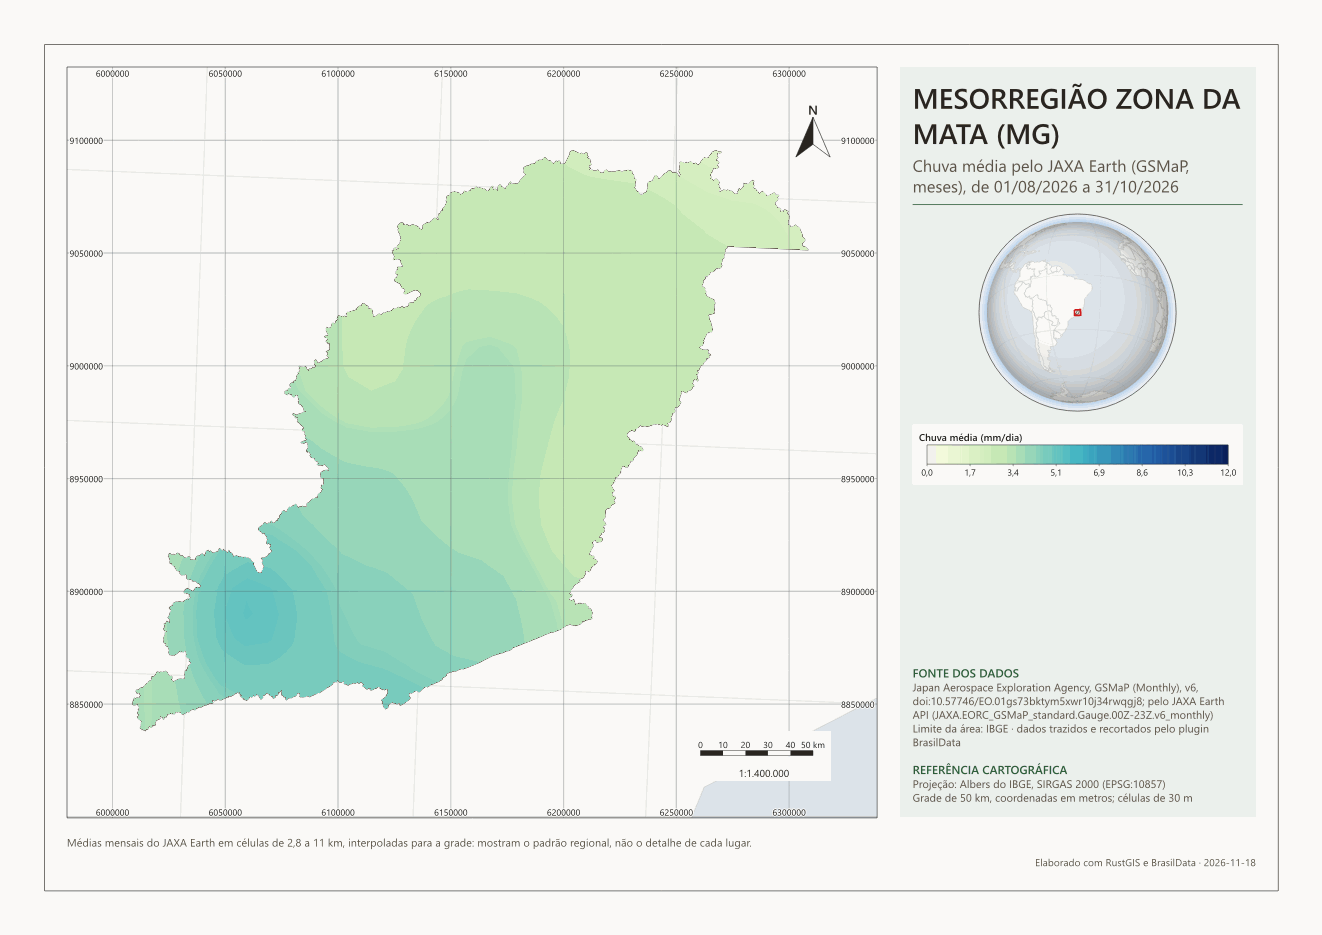
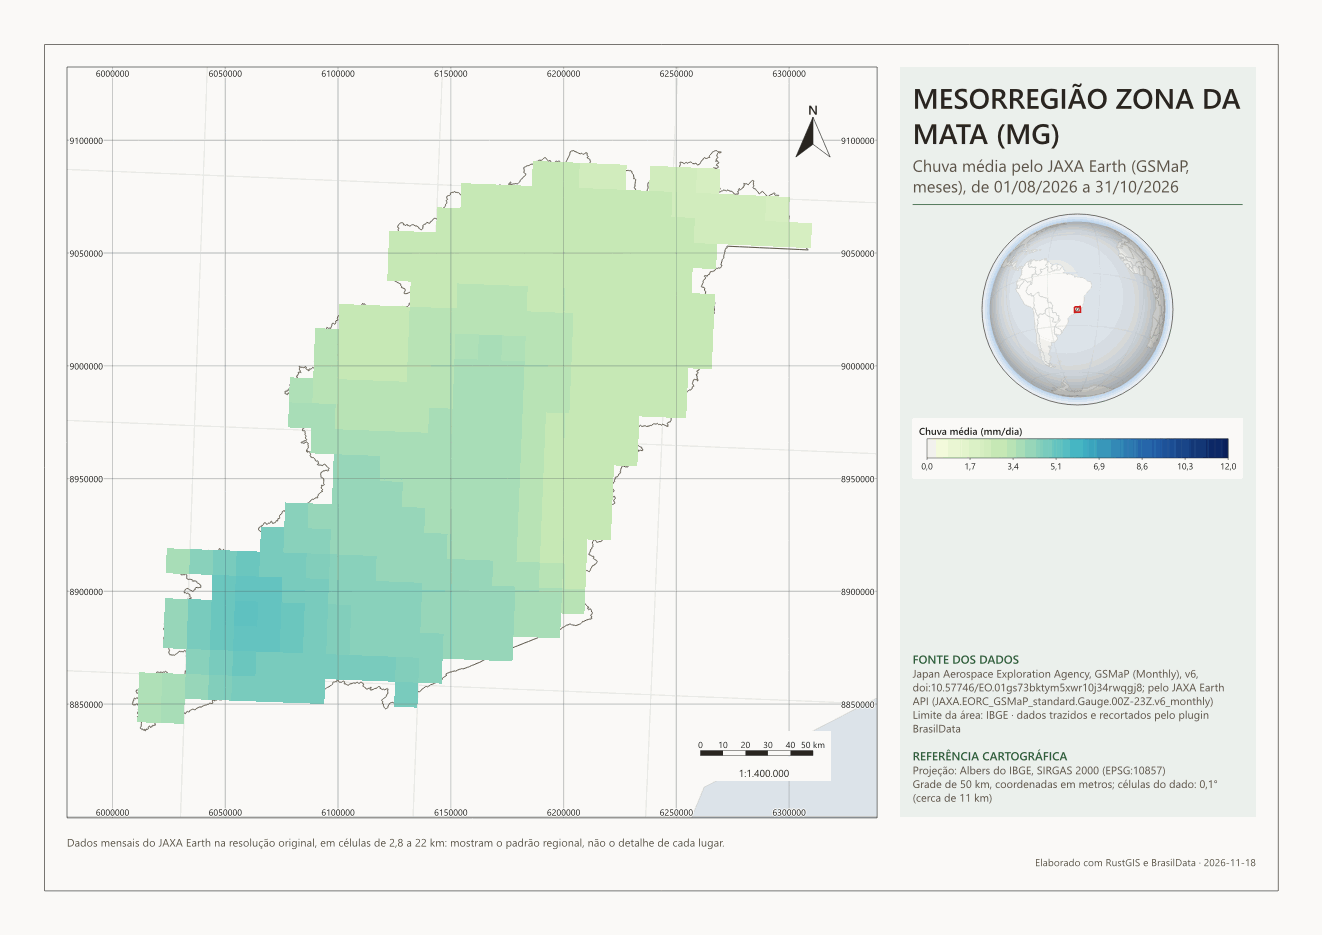
JAXA na resolução original; grade padrão pelo tamanho da área; versão 0.1.37
- Os cinco comandos do JAXA Earth saem na resolução original do dado (0,1°,
  1/24°, 0,05°, cerca de 22 km, em EPSG:4326), só recortados pela área, sem
  interpolar para a grade do projeto: no Brasil inteiro, a chuva a 0,1° tem
  416 × 391 células e sai em segundos (antes, a grade de 30 m pedia 21
  bilhões de células e o RustGIS recusava). A referência do layout diz a
  célula do dado.
- A grade padrão tem a menor célula do painel, de 30 m para cima, que a deixa
  com até 100 milhões de células: 30 m num município ou na Zona da Mata,
  250 m em Minas Gerais, 500 m no Brasil (grade::celula_padrao). Uma grade
  que, na área, passa do limite do RustGIS (1 bilhão) é refeita com a célula
  padrão, com aviso; a janela Grade do projeto recusa uma célula fina demais.

diff --git a/src/comandos.rs b/src/comandos.rs
@@ -298,9 +298,11 @@ fn por_area(fc: Value) -> Result<Value, String> {
     // pedir as janelas seria recusado quando elas chegam (ver executar).
     let havia = grade_no_mapa()?;
     let nova = havia.is_none();
+    // A célula padrão cresce com a área; a de uma grade que já havia fica, a não ser que passe do
+    // limite do RustGIS nesta área (uma grade de 30 m no Brasil inteiro teria 23 bilhões de células).
     let grade = Some(match havia {
-        Some(g) => por_grade(Grade::nova(caixa, g.escolha, g.celula))?,
-        None => por_grade(Grade::nova(caixa, Escolha::Automatico, grade::CELULA_PADRAO))?,
+        Some(g) => por_grade(Grade::nova(caixa, g.escolha, celula_que_cabe(caixa, g.celula)))?,
+        None => por_grade(Grade::nova(caixa, Escolha::Automatico, grade::celula_padrao(caixa)))?,
     });
     remover(&[AREA])?;
     host::add_layer(AREA, fc)?;
@@ -365,6 +367,14 @@ fn grade_do_projeto(req: &Request) -> Result<Value, String> {
         Some(v) => Escolha::do_parametro(v)?,
         None => posicao("grade-sistema").and_then(|i| Escolha::DO_PAINEL.get(i).copied()).unwrap_or(Escolha::Automatico),
     };
+    if grade::celulas(c, celula) > grade::MAX_CELULAS {
+        return Err(format!(
+            "uma grade de {} teria cerca de {} milhões de células nesta área, mais que o RustGIS aceita (1 bilhão): escolha {} ou mais",
+            grade::texto_da_celula(celula),
+            (grade::celulas(c, celula) / 1e6).round(),
+            grade::texto_da_celula(grade::celula_padrao(c))
+        ));
+    }
     let g = por_grade(Grade::nova(c, escolha, celula))?;
     vista_no_sistema(c, Some(g.epsg));
     avisar(&format!(
@@ -377,9 +387,10 @@ fn grade_do_projeto(req: &Request) -> Result<Value, String> {
 }
 
 /// A grade para um raster na área de retângulo `c`: a do mapa, refeita se não cobre mais a área
-/// (a camada da área trocada à mão), ou, sem grade, a padrão (sistema automático) com
-/// `celula` ou 30 m. Um `celula` diferente do da grade é recusado: os rasters ficariam
-/// desalinhados.
+/// (a camada da área trocada à mão) ou se as células dela não cabem no RustGIS nesta área, ou,
+/// sem grade, a padrão (sistema automático) com `celula` ou a célula padrão da área (30 m num
+/// município, maior numa área grande). Um `celula` diferente do da grade é recusado: os rasters
+/// ficariam desalinhados.
 fn grade_para(c: [f64; 4], celula: Option<f64>) -> Result<Grade, String> {
     let g = match grade_no_mapa()? {
         Some(g) => {
@@ -392,15 +403,16 @@ fn grade_para(c: [f64; 4], celula: Option<f64>) -> Result<Grade, String> {
                     grade::texto_da_celula(m)
                 ));
             }
-            if g.cobre(c) {
+            let m = celula_que_cabe(c, g.celula);
+            if g.cobre(c) && m == g.celula {
                 g
             } else {
-                por_grade(Grade::nova(c, g.escolha, g.celula))?;
+                por_grade(Grade::nova(c, g.escolha, m))?;
                 return Err(GRADE_FEITA.into());
             }
         }
         None => {
-            let m = celula.unwrap_or(grade::CELULA_PADRAO);
+            let m = celula.unwrap_or(grade::celula_padrao(c));
             grade::conferir_celula(m)?;
             let g = por_grade(Grade::nova(c, Escolha::Automatico, m))?;
             avisar(&format!("Grade do projeto criada: {}. Para outra, use Grade do projeto no painel Área de trabalho", g.texto()));
@@ -408,6 +420,22 @@ fn grade_para(c: [f64; 4], celula: Option<f64>) -> Result<Grade, String> {
         }
     };
     Ok(g)
+}
+
+/// A célula `celula` da grade, ou, se nesta área de retângulo `c` ela passa do limite do RustGIS
+/// ([`grade::MAX_CELULAS`]), a padrão da área, dito num aviso.
+fn celula_que_cabe(c: [f64; 4], celula: f64) -> f64 {
+    if grade::celulas(c, celula) <= grade::MAX_CELULAS {
+        return celula;
+    }
+    let m = grade::celula_padrao(c);
+    avisar(&format!(
+        "Grade do projeto: células de {} dariam cerca de {} milhões nesta área, mais que o RustGIS aceita; ficou com {}",
+        grade::texto_da_celula(celula),
+        (grade::celulas(c, celula) / 1e6).round(),
+        grade::texto_da_celula(m)
+    ));
+    m
 }
 
 /// O "erro" com que [`grade_para`] para um comando depois de criar ou refazer a grade: o
@@ -4499,8 +4527,9 @@ fn bdc_indice(req: &Request) -> Result<Value, String> {
 
 /// Um dado mensal do JAXA Earth na área ([`jaxa`]), resumido num período (a média, a máxima, a
 /// mínima ou o desvio dos meses): lido só na área pelo `cube.reduce` do RustGIS na coleção estática
-/// do conjunto, convertido para a unidade do texto, posto na grade do projeto e recortado pelo
-/// contorno. Sem período, os 3 meses até o último com dados (lido no `collection.json`).
+/// do conjunto, convertido para a unidade do texto e recortado pelo contorno, na resolução original
+/// do dado (fora da grade do projeto). Sem período, os 3 meses até o último com dados (lido no
+/// `collection.json`).
 fn jaxa_na_area(req: &Request, v: jaxa::Variavel) -> Result<Value, String> {
     let (c, na_area) = retangulo()?;
     if !na_area {
@@ -4529,11 +4558,9 @@ fn jaxa_na_area(req: &Request, v: jaxa::Variavel) -> Result<Value, String> {
         }
     };
     jaxa::conferir_periodo(v, inicio, fim)?;
-    let g = grade_para(c, req.f64("celula"))?;
     let nome = jaxa::camada(v, e, inicio, fim);
     let lido = format!("{nome} (lido)");
     let convertido = format!("{nome} (convertido)");
-    let na_grade = format!("{nome} (na grade)");
     // O que um clique anterior leu serve: no app, o comando roda de novo quando a leitura chega.
     // Nada se tira antes da leitura (ver executar).
     if !nomes()?.contains(&lido) {
@@ -4564,9 +4591,9 @@ fn jaxa_na_area(req: &Request, v: jaxa::Variavel) -> Result<Value, String> {
             return Ok(r);
         }
     }
-    remover(&[&nome, &convertido, &na_grade])?;
+    remover(&[&nome, &convertido])?;
     let feito = (|| -> Result<(), String> {
-        // As células do JAXA (de 2,8 a 11 km) são maiores que as da grade: bilinear.
+        // Na resolução original: as células do JAXA, recortadas pela área, sem reamostrar.
         let origem = match v.expressao(e) {
             Some(x) => {
                 host::run("raster.function", json!({"layer": lido, "function": "bandMath", "expression": x, "name": convertido}))?;
@@ -4574,11 +4601,7 @@ fn jaxa_na_area(req: &Request, v: jaxa::Variavel) -> Result<Value, String> {
             }
             None => lido.clone(),
         };
-        host::run(
-            "raster.project",
-            json!({"layer": origem, "crs": g.epsg, "cellSize": g.celula, "extent": GRADE, "resampling": "bilinear", "name": na_grade}),
-        )?;
-        recortar(&na_grade, AREA, &nome)?;
+        recortar(&origem, AREA, &nome)?;
         let (rampa, cores) = v.rampa();
         let _ = host::run("ramp.add", json!({"text": cores, "format": "gdal", "name": rampa}));
         if host::run("raster.symbology", json!({"layer": nome, "type": "stretch", "ramp": rampa})).is_err() {
@@ -4590,7 +4613,7 @@ fn jaxa_na_area(req: &Request, v: jaxa::Variavel) -> Result<Value, String> {
         }
         Ok(())
     })();
-    remover(&[&lido, &convertido, &na_grade])?;
+    remover(&[&lido, &convertido])?;
     feito?;
     let media = host::run("raster.info", json!({"layer": nome}))
         .ok()
@@ -4598,15 +4621,15 @@ fn jaxa_na_area(req: &Request, v: jaxa::Variavel) -> Result<Value, String> {
         .map(|m| format!("; média na área: {}{}", format!("{m:.2}").replace('.', ","), com_espaco(v.unidade())))
         .unwrap_or_default();
     avisar(&format!(
-        "{}: dos meses do JAXA Earth ({}){}, na grade do projeto, {} (as células do JAXA, de 2,8 a 11 km, interpoladas){media}",
+        "{}: dos meses do JAXA Earth ({}){}, na resolução original do dado, {}, recortada pela área (fora da grade do projeto){media}",
         nome.trim_start_matches(PREFIXO),
         v.conjunto(),
         if v.unidade().is_empty() { String::new() } else { format!(", em {}", v.unidade()) },
-        g.texto()
+        v.resolucao()
     ));
     Ok(json!({
         "layer": nome, "dataset": v.conjunto(), "band": v.banda(), "unit": v.unidade(), "stat": e.stat(),
-        "start": inicio.iso(), "end": fim.iso(), "crs": format!("EPSG:{}", g.epsg), "cellSize": g.celula,
+        "start": inicio.iso(), "end": fim.iso(), "resolution": v.resolucao(),
     }))
 }
 
@@ -4834,7 +4857,11 @@ fn layout_do_mapa(req: &Request) -> Result<Value, String> {
     let epsg = g.as_ref().map_or_else(|| Escolha::Automatico.epsg(c), |g| g.epsg);
     host::run("map.projection", json!({"type": format!("EPSG:{epsg}")}))?;
     let passo = layout::passo_da_grade(c);
-    let celula = g.as_ref().map(|g| format!("; células de {}", grade::texto_da_celula(g.celula))).unwrap_or_default();
+    // Um dado do JAXA Earth sai na resolução original, fora da grade: a célula dele, não a da grade.
+    let celula = match jaxa::variavel_da_camada(&principal) {
+        Some(v) => format!("; células do dado: {}", v.resolucao()),
+        None => g.as_ref().map(|g| format!("; células de {}", grade::texto_da_celula(g.celula))).unwrap_or_default(),
+    };
     let referencia = [
         format!("Projeção: {}", grade::nome_do_sistema(epsg)),
         format!("Grade de {}, coordenadas em metros{celula}", grade::texto_da_celula(passo)),

diff --git a/src/catalogo.rs b/src/catalogo.rs
@@ -3416,7 +3416,7 @@ pub const FICHAS: &[Ficha] = &[
 
 /// O texto da seção Sobre (o do painel Área de trabalho): autoria, versão, licença, repositório,
 /// fontes e como contribuir.
-pub const SOBRE: &str = "BrasilData 0.1.36, plugin do RustGIS que traz dados públicos do Brasil para a área de trabalho.\n\nAutor: Elpídio Filho, do Laboratório de Geoprocessamento e Pedometria (LABGEO) da Universidade Federal de Viçosa (UFV).\nLicença: MIT, a do código. Os dados são dos órgãos que os publicam, cada um com a sua licença: o botão Fontes põe a citação e a licença de cada camada do mapa na tabela BrasilData: fontes.\nRepositório: https://github.com/elpidioassinaturas/BrasilData\n\nFontes dos dados: IBGE, IDE-Sisema, INPE, ANA, ANP, ANEEL, INCRA, ANM, Kuzma, MMA, ICMBio, FUNAI, Serviço Florestal Brasileiro, IBAMA, DNIT e MapBiomas, pelos serviços de cada órgão; Copernicus DEM GLO-30 (DLR e Airbus, pelo espelho da OpenTopography); Banco Central (Pix e crédito rural); TSE; Novo CAGED (IPEA Data); Ministério da Saúde (CNES, pelo geobr do Ipea); Open-Meteo (previsão do ECMWF, da NOAA e do DWD) e CHIRPS v3 (Climate Hazards Center, UCSB).\n\nComo contribuir: sentiu falta de algum dado? Abra uma issue em https://github.com/elpidioassinaturas/BrasilData/issues com o nome do dado, o órgão que o publica, o endereço do serviço (WFS, ArcGIS REST, API ou arquivo) e para que você o usaria. Para trazer a fonte você mesmo, acrescente uma linha ao fontes.csv, rode python scripts/gerar.py e abra um pull request. Correções, avisos de serviço fora do ar e relatos de uso também são bem-vindos.";
+pub const SOBRE: &str = "BrasilData 0.1.37, plugin do RustGIS que traz dados públicos do Brasil para a área de trabalho.\n\nAutor: Elpídio Filho, do Laboratório de Geoprocessamento e Pedometria (LABGEO) da Universidade Federal de Viçosa (UFV).\nLicença: MIT, a do código. Os dados são dos órgãos que os publicam, cada um com a sua licença: o botão Fontes põe a citação e a licença de cada camada do mapa na tabela BrasilData: fontes.\nRepositório: https://github.com/elpidioassinaturas/BrasilData\n\nFontes dos dados: IBGE, IDE-Sisema, INPE, ANA, ANP, ANEEL, INCRA, ANM, Kuzma, MMA, ICMBio, FUNAI, Serviço Florestal Brasileiro, IBAMA, DNIT e MapBiomas, pelos serviços de cada órgão; Copernicus DEM GLO-30 (DLR e Airbus, pelo espelho da OpenTopography); Banco Central (Pix e crédito rural); TSE; Novo CAGED (IPEA Data); Ministério da Saúde (CNES, pelo geobr do Ipea); Open-Meteo (previsão do ECMWF, da NOAA e do DWD) e CHIRPS v3 (Climate Hazards Center, UCSB).\n\nComo contribuir: sentiu falta de algum dado? Abra uma issue em https://github.com/elpidioassinaturas/BrasilData/issues com o nome do dado, o órgão que o publica, o endereço do serviço (WFS, ArcGIS REST, API ou arquivo) e para que você o usaria. Para trazer a fonte você mesmo, acrescente uma linha ao fontes.csv, rode python scripts/gerar.py e abra um pull request. Correções, avisos de serviço fora do ar e relatos de uso também são bem-vindos.";
 
 /// O aviso do botão Sobre: o resumo do [`SOBRE`].
-pub const SOBRE_AVISO: &str = "BrasilData 0.1.36, de Elpídio Filho (LABGEO/UFV), sob a licença MIT: https://github.com/elpidioassinaturas/BrasilData. A autoria, as fontes dos dados e como contribuir estão em Sobre o BrasilData, no fim do painel Área de trabalho.";
+pub const SOBRE_AVISO: &str = "BrasilData 0.1.37, de Elpídio Filho (LABGEO/UFV), sob a licença MIT: https://github.com/elpidioassinaturas/BrasilData. A autoria, as fontes dos dados e como contribuir estão em Sobre o BrasilData, no fim do painel Área de trabalho.";

diff --git a/scripts/gerar.py b/scripts/gerar.py
@@ -37,7 +37,7 @@ import pathlib
 import sys
 
 ROOT = pathlib.Path(__file__).resolve().parent.parent
-VERSAO = "0.1.36"
+VERSAO = "0.1.37"
 
 # As escolhas das janelas dos comandos: o texto que a janela manda é o da escolha, e o
 # src/dialogos.rs o traduz no valor do parâmetro (um teste confere que ele conhece todas).
@@ -77,8 +77,8 @@ CAMPOS_JAXA = [
     {"name": "fim", "label": "Fim (dd/mm/aaaa)", "kind": "text", "help": "O último dia do período. Vazio: o fim do último mês com dados. Até 5 anos."},
     {"name": "estatistica", "label": "Resumo dos meses", "kind": "choice", "required": True, "choices": ESTATISTICAS_BDC, "default": ESTATISTICAS_BDC[0], "help": "A média dos meses do período, a máxima, a mínima ou o desvio-padrão (o quanto variou)."},
 ]
-PARAMS_JAXA = "\"inicio\"?, \"fim\"?: dd/mm/aaaa ou aaaa-mm-dd (padrão: os 3 meses até o último com dados), \"estatistica\"?: \"media\" (padrão) | \"maxima\" | \"minima\" | \"desvio\", \"celula\"?: sem grade, o tamanho das células da grade que ela cria, em metros (padrão 30)"
-FIM_JAXA = " Do JAXA Earth (a agência espacial do Japão), por mês, lido só na área pelo RustGIS (sem login), posto na grade do projeto (as células do JAXA são de 2,8 a 11 km: o mapa mostra o padrão regional) e recortado pelo contorno. Sem período, os 3 meses até o último com dados. Uso livre com o crédito \"JAXA\"; uso comercial, avisando a JAXA antes. Precisa de um RustGIS com o resumo de um cubo STAC (cube.reduce, desde a 0.6.0); só no app desktop e no rustgis-cli."
+PARAMS_JAXA = "\"inicio\"?, \"fim\"?: dd/mm/aaaa ou aaaa-mm-dd (padrão: os 3 meses até o último com dados), \"estatistica\"?: \"media\" (padrão) | \"maxima\" | \"minima\" | \"desvio\""
+FIM_JAXA = " Do JAXA Earth (a agência espacial do Japão), por mês, lido só na área pelo RustGIS (sem login) e recortado pelo contorno, na resolução original do dado (células de 2,8 a 22 km, em graus), fora da grade do projeto: o mapa mostra o padrão regional. Sem período, os 3 meses até o último com dados. Uso livre com o crédito \"JAXA\"; uso comercial, avisando a JAXA antes. Precisa de um RustGIS com o resumo de um cubo STAC (cube.reduce, desde a 0.6.0); só no app desktop e no rustgis-cli."
 CAMPOS_BDC = [
     {"name": "satelite", "label": "Satélite", "kind": "choice", "required": True, "choices": SATELITES_BDC, "default": SATELITES_BDC[0], "help": "O cubo de 16 dias do INPE: o Sentinel-2 tem o detalhe (10 m) e começa em 2017; o Landsat vai até 1990, a 30 m; o CBERS-4 WFI, satélite sino-brasileiro, a 64 m; o MODIS, a 250 m, desde 2000, para áreas grandes."},
     {"name": "indice", "label": "Índice", "kind": "choice", "required": True, "choices": INDICES_BDC, "default": INDICES_BDC[0], "help": "O NDVI mede o verde da vegetação; o EVI satura menos nas florestas densas."},

diff --git a/src/grade.rs b/src/grade.rs
@@ -20,8 +20,31 @@ pub const GRADE: &str = "BrasilData: grade";
 /// Os tamanhos de célula do painel, em metros.
 pub const CELULAS: [f64; 9] = [10.0, 20.0, 30.0, 50.0, 90.0, 100.0, 250.0, 500.0, 1000.0];
 
-/// A célula de quem não escolhe: 30 m, a do Copernicus GLO-30 e do MapBiomas.
+/// A célula de quem não escolhe, numa área pequena: 30 m, a do Copernicus GLO-30 e do MapBiomas.
 pub const CELULA_PADRAO: f64 = 30.0;
+
+/// Quantas células, no máximo, a grade padrão tem: uma área maior ganha uma célula maior
+/// ([`celula_padrao`]). Um município e a Zona da Mata ficam com 30 m; Minas Gerais, com 250 m; o
+/// Brasil, com 500 m.
+pub const MAX_CELULAS_PADRAO: f64 = 1.0e8;
+
+/// Quantas células um raster pode ter no RustGIS ("more than this computer's 1000000000"): uma
+/// grade com mais não serve a nenhum comando.
+pub const MAX_CELULAS: f64 = 1.0e9;
+
+/// Quantas células, mais ou menos, uma grade de `celula` metros tem no retângulo `c` (em graus).
+pub fn celulas(c: [f64; 4], celula: f64) -> f64 {
+    let lat = ((c[1] + c[3]) / 2.0).to_radians().cos();
+    let (largura, altura) = ((c[2] - c[0]).abs() * 111_320.0 * lat, (c[3] - c[1]).abs() * 110_574.0);
+    largura * altura / (celula * celula)
+}
+
+/// A célula padrão para a área de retângulo `c`: a menor do painel, de [`CELULA_PADRAO`] para
+/// cima, que deixa a grade com até [`MAX_CELULAS_PADRAO`] células; numa área ainda maior, a maior
+/// do painel.
+pub fn celula_padrao(c: [f64; 4]) -> f64 {
+    CELULAS.into_iter().filter(|m| *m >= CELULA_PADRAO).find(|m| celulas(c, *m) <= MAX_CELULAS_PADRAO).unwrap_or(CELULAS[CELULAS.len() - 1])
+}
 
 /// Os sistemas geográficos (em graus), que não servem para células em metros.
 const EM_GRAUS: [u32; 3] = [4326, 4674, 4618];
@@ -213,6 +236,21 @@ impl Grade {
 #[cfg(test)]
 mod tests {
     use super::*;
+
+    #[test]
+    fn a_celula_padrao_acompanha_a_area() {
+        let vicosa = [-43.003, -20.838, -42.754, -20.655];
+        let zona_da_mata = [-43.37, -22.92, -40.56, -20.52];
+        let minas = [-51.05, -22.93, -39.85, -14.23];
+        let brasil = [-73.99, -33.75, -28.84, 5.27];
+        assert_eq!(celula_padrao(vicosa), 30.0);
+        assert_eq!(celula_padrao(zona_da_mata), 30.0);
+        assert_eq!(celula_padrao(minas), 250.0);
+        assert_eq!(celula_padrao(brasil), 500.0);
+        // O erro do RustGIS: o Brasil a 30 m tem uns 23 bilhões de células.
+        assert!(celulas(brasil, 30.0) > MAX_CELULAS);
+        assert!(celulas(brasil, 500.0) < MAX_CELULAS_PADRAO);
+    }
 
     const TERESINA: [f64; 4] = [-42.9707, -5.5866, -42.599, -4.7863];
     /// O Piauí passa dos fusos 23 e 24.

diff --git a/src/jaxa.rs b/src/jaxa.rs
@@ -4,7 +4,9 @@
 //!
 //! Cada conjunto é uma coleção STAC estática, um catálogo por mês (`collection.json`), que o
 //! `cube.reduce` do RustGIS lê só na área. O plugin converte a unidade (a taxa de chuva em mm/h
-//! para mm/dia, o kelvin para °C), põe o resultado na grade do projeto e recorta pela área. Este
+//! para mm/dia, o kelvin para °C) e recorta pela área, na resolução original do dado (de 2,8 a
+//! 22 km, em graus), sem passar pela grade do projeto: interpolar células de 11 km para 30 m não
+//! dá detalhe, e no Brasil inteiro daria bilhões de células. Este
 //! módulo tem as escolhas, as conversões, os nomes e as citações; quem chama o RustGIS é o
 //! `comandos.rs`.
 
@@ -101,6 +103,16 @@ impl Variavel {
             Variavel::Temperatura(Turno::Noite) => ("Temperatura da superfície à noite", true),
             Variavel::Evapotranspiracao => ("Evapotranspiração", true),
             Variavel::Seca => ("Índice de seca (SPI)", false),
+        }
+    }
+
+    /// A resolução original do dado, em que a camada sai.
+    pub fn resolucao(self) -> &'static str {
+        match self {
+            Variavel::Chuva | Variavel::Umidade => "0,1° (cerca de 11 km)",
+            Variavel::Temperatura(_) => "1/24° (cerca de 4,6 km)",
+            Variavel::Evapotranspiracao => "0,05° (cerca de 5,5 km)",
+            Variavel::Seca => "cerca de 22 km",
         }
     }
 

diff --git a/src/layout.rs b/src/layout.rs
@@ -36,7 +36,8 @@ const NOTA_IRRIGACAO_MAPBIOMAS: &str = "Cores da legenda oficial do MapBiomas: r
 const NOTA_COBERTURA_MAPBIOMAS: &str =
     "Cores da legenda oficial do MapBiomas (brasil.mapbiomas.org). Mapa do Brasil inteiro, não recortado pela área.";
 const NOTA_RISCO_FOGO: &str = "Perigo meteorológico de fogo do modelo do INPE (versão 11), não a ocorrência de fogo. Classes do INPE: mínimo, abaixo de 0,15; baixo, de 0,15 a 0,40; médio, de 0,40 a 0,70; alto, de 0,70 a 0,95; crítico, acima de 0,95.";
-const NOTA_JAXA: &str = "Médias mensais do JAXA Earth em células de 2,8 a 11 km, interpoladas para a grade: mostram o padrão regional, não o detalhe de cada lugar.";
+const NOTA_JAXA: &str =
+    "Dados mensais do JAXA Earth na resolução original, em células de 2,8 a 22 km: mostram o padrão regional, não o detalhe de cada lugar.";
 const NOTA_BDC: &str = "Compostos de 16 dias do cubo de dados do INPE (Brazil Data Cube), com o pixel mais limpo de cada período; nuvens e sombras persistentes ainda podem aparecer.";
 const NOTA_CHM: &str = "Altura estimada por um modelo de IA (DINOv3) sobre imagens de satélite de alta resolução de datas diferentes; 0 é sem árvore (ou sem dado).";
 const NOTA_GEM15: &str = "De imagens estéreo de satélite adquiridas até 2024; alturas no geoide EGM96. Água e superfícies sem textura ficam sem dado; sob mata densa, o terreno é estimado.";
